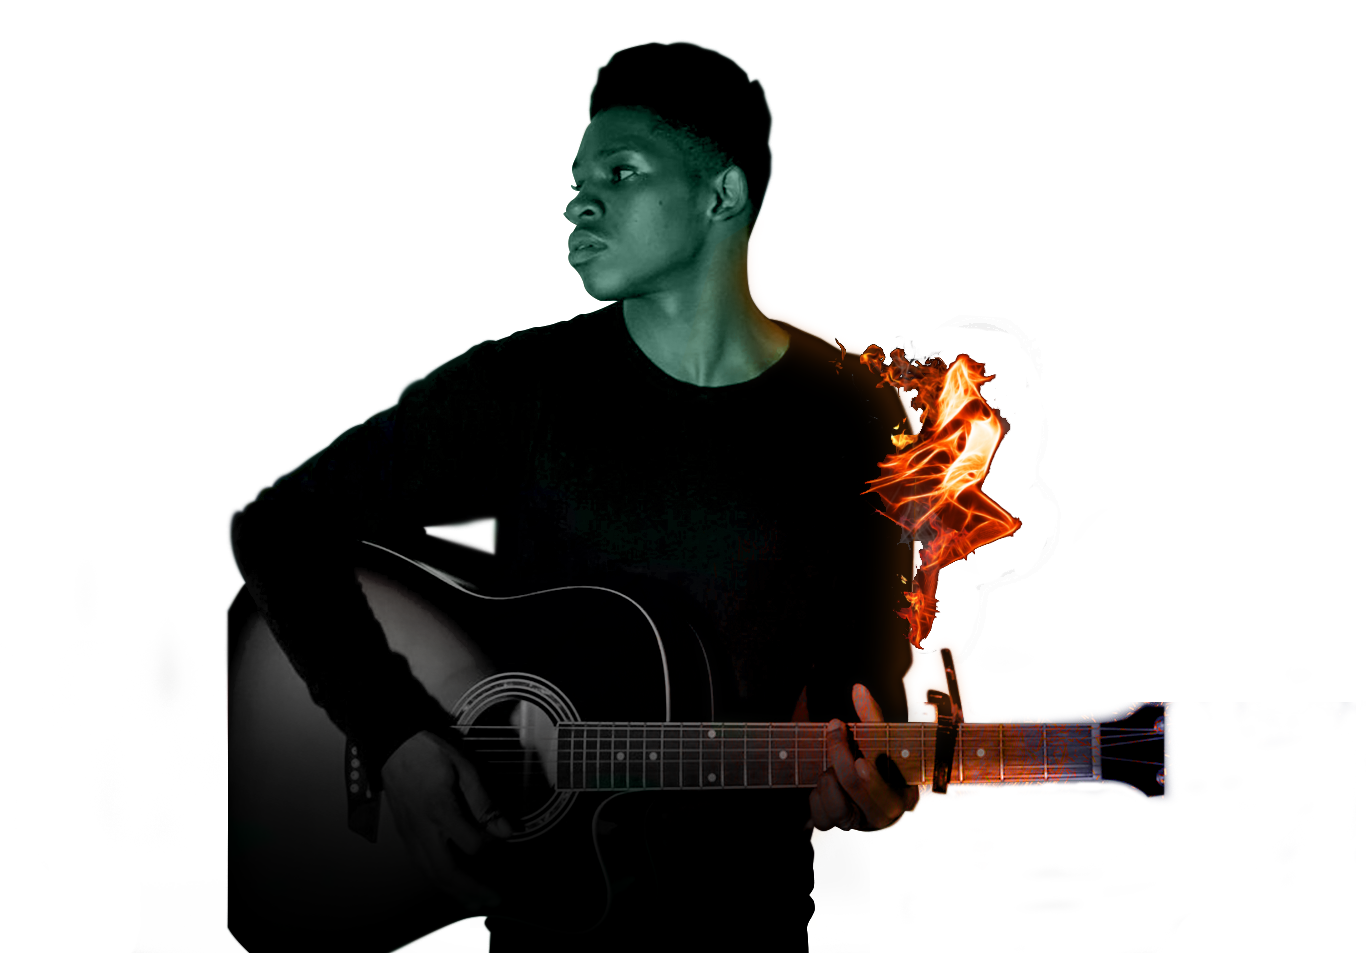
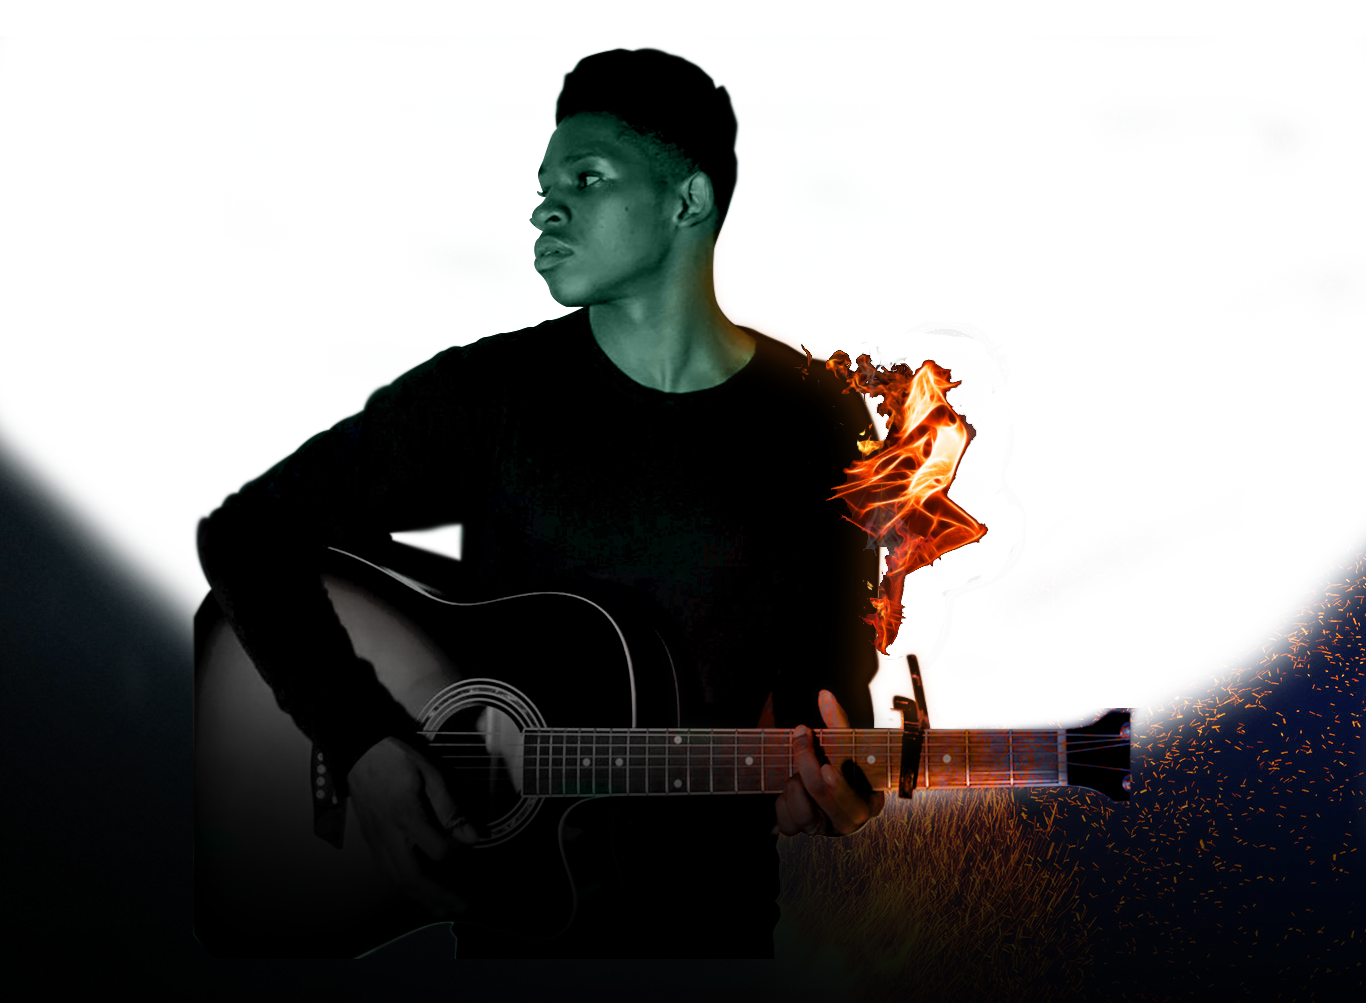
hero with gradient

diff --git a/index.html b/index.html
@@ -10,16 +10,16 @@
         <link rel="stylesheet" href="css/mobile.css">
         <link rel="stylesheet" href="css/iPad.css">
         <link rel="stylesheet" href="css/laptop.css">
-        <link rel="stylesheet" href="css/desktop.css">
-        
+        <link rel="stylesheet" href="css/desktop.css">     
+          
    </head>
    
 	<body>
 		  
 		    <section class=" parallax-1">
-		     <div class="container">
-				<img id="artist" src="images/artist.png"/>
-				</div>
+				 <div class="container">
+					<img id="artist" src="images/artist.png"/>
+				 </div>
 	 		 </section>
 			<div class="hero">
 				<div class="img-wrapper">				
@@ -58,36 +58,35 @@
 		<main class="middle">
 			<div class="container1">
 				<div>
-					<p class="vid fadeInScroll">VIDEOS</p>
+					<p class="vid">VIDEOS</p>
 					<p class="vid_big">VIDEOS</p>
 					<p class="info1">PUT INFORMATION HERE</p>
 				</div>
-				<div id="videos" class="fadeInBlockLeft left">
+				<div id="videos">
 					<img src="images/music.png" width="353" height="215" alt="">
 				</div>
 				<div>
-					<p class="listen fadeInScroll">LISTENING TO</p>
-					<p class="listen_big">LISTENING TO</p>
+					<p class="listen">LISTENING TO</p>
+					<p class="listen_big">MUSIC</p>
 					<p class="info2">PUT INFORMATION HERE</p>
-				</div>
-		  		
+				</div> 		
 				
-			  	<div id="apple" class="fadeInBlockLeft left">
+			  	<div id="apple">
 					<a href="#">
 						<img src="images/apple.png" alt="">
 					</a>
 			  	</div>
-			  	<div id="logo1" class="fadeInBlockLeft left">
+			  	<div id="logo1">
 			  		<a href="#">
 						<img src="images/logo1.png" alt="">
 					</a>
 			 	</div>
-			  	<div id="logo2" class="fadeInBlockLeft left">
+			  	<div id="logo2">
 			  		<a href="#">
 						<img src="images/logo2.png" alt="">
 					</a>
 			  	</div>
-			  	<div id="logo3" class="fadeInBlockLeft left">
+			  	<div id="logo3">
 			  		<a href="#">
 						<img src="images/logo3.png" alt="">
 					</a>
@@ -95,7 +94,7 @@
 			</div>
 			
 			<div class="boxed">
-				<a class="circle fadeInBlockRight right"href="#">
+				<a class="circle" href="#">
 					<img src="images/artist-circle.png" alt="">
 				</a>
 				<p class="title">TITLE OF THE SONG</p>
@@ -127,7 +126,7 @@
 			
 			<div class="container2">
 				<div>
-		  			<p class="tour fadeInScroll">TOUR</p>
+		  			<p class="tour">TOUR</p>
 		  			<p class="tour_big">TOUR</p>
 		  		</div>
 		
@@ -140,9 +139,10 @@
 					</div>
 				</div>
 				<div id="col2">
-					<div id="ticket1" class="fadeInBlockLeft left">
+					<div id="ticket1">
 							<img src="images/ticket.png" alt="">
 					</div>
+					
 				</div>
 				<div id="col3">
 					<div id="summer2">
@@ -153,13 +153,12 @@
 					</div>
 				</div>
 				<div id="col4">
-					<div id="ticket2" class="fadeInBlockLeft left">
+					<div id="ticket2">
 							<img src="images/ticket.png" alt="">
 					</div>
 				</div>	
 			</div>
 			
-<!--				<a href="#" class="get">GET TICKETS</a>-->
 				
 			<div class="container3">
 			  <div class="row row-cols-1 row-cols-sm-2 row-cols-md-4">
@@ -172,7 +171,7 @@
 					</div>
 				</div>
 				<div id="col2">
-					<div id="ticket3" class="fadeInBlockRight right">
+					<div id="ticket3">
 							<img src="images/ticket.png"alt="">
 					</div>
 				</div>
@@ -185,7 +184,7 @@
 					</div>
 				</div>
 				<div id="col4">
-					<div id="ticket4" class="fadeInBlockRight right">
+					<div id="ticket4">
 							<img src="images/ticket.png" alt="">
 					</div>
 				</div>
@@ -195,26 +194,26 @@
 			<div class="slideshow-container">
 				<div class="mySlides">
 					<img  class="white" src="images/white.jpg"  alt="">	
-					  <div class="merchandise fadeInScroll ">NEW&nbsp;MERCHANDISE</div>
-					  <div class="love fadeInScroll ">SUMMER&nbsp;LOVE&nbsp;TOUR</div>
-					  <div class="collection fadeInScroll ">COLLECTION&nbsp;AVAILABLE</div>
-					  <div class="shop fadeInScroll ">SHOP&nbsp;NOW</div>
+					  <div class="merchandise">NEW&nbsp;MERCHANDISE</div>
+					  <div class="love">SUMMER&nbsp;LOVE&nbsp;TOUR</div>
+					  <div class="collection">COLLECTION&nbsp;AVAILABLE</div>
+					  <div class="shop">SHOP&nbsp;NOW</div>
 					  <div><img class="tshirt" src="images/shirt.png"alt=""></div>
 				</div>
 				<div class="mySlides">
 					<img  class="white" src="images/white.jpg"  alt="">	
-					  <div class="merchandise fadeInScroll ">NEW&nbsp;MERCHANDISE</div>
-					  <div class="love fadeInScroll ">SUMMER&nbsp;LOVE&nbsp;TOUR</div>
-					  <div class="collection fadeInScroll ">COLLECTION&nbsp;AVAILABLE</div>
-					  <div class="shop fadeInScroll ">SHOP&nbsp;NOW</div>
+					  <div class="merchandise">NEW&nbsp;MERCHANDISE</div>
+					  <div class="love">SUMMER&nbsp;LOVE&nbsp;TOUR</div>
+					  <div class="collection">COLLECTION&nbsp;AVAILABLE</div>
+					  <div class="shop">SHOP&nbsp;NOW</div>
 					  <div><img class="tshirt" src="images/shirt.png"alt=""></div>
 				</div>
 				<div class="mySlides">
 					<img  class="white" src="images/white.jpg"  alt="">	
-					  <div class="merchandise fadeInScroll ">NEW&nbsp;MERCHANDISE</div>
-					  <div class="love fadeInScroll ">SUMMER&nbsp;LOVE&nbsp;TOUR</div>
-					  <div class="collection fadeInScroll ">COLLECTION&nbsp;AVAILABLE</div>
-					  <div class="shop fadeInScroll ">SHOP&nbsp;NOW</div>
+					  <div class="merchandise">NEW&nbsp;MERCHANDISE</div>
+					  <div class="love">SUMMER&nbsp;LOVE&nbsp;TOUR</div>
+					  <div class="collection">COLLECTION&nbsp;AVAILABLE</div>
+					  <div class="shop">SHOP&nbsp;NOW</div>
 					  <div><img class="tshirt" src="images/shirt.png"alt=""></div>
 				</div>
 			</div>
@@ -226,18 +225,18 @@
 			</div>
 			
 			<div>
-				<p class="signup fadeInScroll">SIGN&nbsp;UP&nbsp;FOR</p>
-				<p class="phoinix fadeInScroll">PHOINIX&nbsp;KEYZ</p>
-				<p class="updates fadeInScroll">UPDATES</p>
+				<p class="signup">SIGN&nbsp;UP&nbsp;FOR</p>
+				<p class="phoinix">PHOINIX&nbsp;KEYZ</p>
+				<p class="updates">UPDATES</p>
 			</div>
 		  		
 			<form class="form-inline">		  
 				<input	type="email" 
-						class="form-control emailInput change fadeInBlockLeft left" 
+						class="form-control emailInput change" 
 						id="inputEmail" 
 						placeholder="ENTER YOUR EMAIL HERE">
 			  <button type="submit" 
-					  class="btn btn-light mb-2 fadeInBlockRight right">
+					  class="btn btn-light mb-2">
 					  SIGN UP NOW
 			  </button>
 			</form>
@@ -253,32 +252,32 @@
 					<img src="images/artist_name.png"  alt="">
 				</a>
 			</div>
-			<div class="facebook-logo fadeInBlockRight right">
+			<div class="facebook-logo">
 				<a href="#">
 					<img src="images/facebook-logo-white.png" alt="">
 				</a>
 			</div>
-			<div class="youtube-logo fadeInBlockRight right">
+			<div class="youtube-logo">
 				<a href="#">
 					<img src="images/youtube-logo.png" alt="">
 				</a>
 			</div>
-			<div class="instagram-logo fadeInBlockRight right">
+			<div class="instagram-logo">
 				<a href="#">
 					<img src="images/instagram-logo.png" alt="">
 				</a>
 			</div>
-			<div class="snapcatch-logo fadeInBlockRight right">
+			<div class="snapcatch-logo">
 				<a href="#">
 					<img src="images/snapcatch-logo.png" alt="">
 				</a>
 			</div>
-			<div class="twitter-logo fadeInBlockRight right">
+			<div class="twitter-logo">
 				<a href="#">
 					<img src="images/twitter-logo.png" alt="">
 				</a>
 			</div>
-			<div class="copyright fadeInBlockLeft left">
+			<div class="copyright">
 				<p>©2019 Phoinix Keyz. All Rights Reserved<br>
 				</p>
 			</div>
@@ -294,5 +293,6 @@
 		<script src="js/select.js"></script>
 		<script src="js/scrolleffect.js"></script>
 <!--		<script src="js/parallax.js"></script>-->
+
    </body>
 </html>

diff --git a/css/styles.css b/css/styles.css
@@ -66,7 +66,7 @@
 .twitter {margin-top: 50px;}
 
 .img-wrapper {
-  	display: grid;
+/*  	display: grid;*/
   	height: 100vh;
 }
 
@@ -246,23 +246,57 @@
 }
 
 
-/*===============================================================
- Parallax effect Style
-==================================================================*/
+/*animation element*/
 
-/*
-section.parallax-1 { 
-	background-image: url("../images//artist-bg.jpg"); 
-	position: absolute;
-	width: 1000px;
-	height: 900px;
-	background-repeat: no-repeat;
-	background-attachment: fixed;
-	background-size: contain;
-	top: 0;
-	transform: translate(-50%,0);
-	margin: 0 auto;
+.animation-element {
+  position: relative;
+  width: 30%;
+  margin: 0% 1.33 2.66% 1.33%;
+  float: left;
 }
-*/
+/*3 grid layout*/
+
+.animation-element:nth-of-type(3n-2) {
+  width: 31.5%;
+  margin: 0% 1.375% 2.75% 0%;
+  clear: left;
+}
+
+.animation-element:nth-of-type(3n-1) {
+  width: 31.5%;
+  margin: 0% 1.375% 2.75% 1.375%;
+}
+
+.animation-element:nth-of-type(3n-0) {
+  width: 31.5%;
+  margin: 0% 0% 2.75% 1.375%;
+  clear: right;
+}
+/*bounce up animation for the subject*/
+
+.bounce-up .subject {
+  opacity: 0;
+  -moz-transition: all 700ms ease-out;
+  -webkit-transition: all 700ms ease-out;
+  -o-transition: all 700ms ease-out;
+  transition: all 700ms ease-out;
+  -moz-transform: translate3d(0px, 200px, 0px);
+  -webkit-transform: translate3d(0px, 200px, 0px);
+  -o-transform: translate(0px, 200px);
+  -ms-transform: translate(0px, 200px);
+  transform: translate3d(0px, 200, 0px);
+  -webkit-backface-visibility: hidden;
+  -moz-backface-visibility: hidden;
+  backface-visibility: hidden;
+}
+
+.bounce-up.in-view .subject {
+  opacity: 1;
+  -moz-transform: translate3d(0px, 0px, 0px);
+  -webkit-transform: translate3d(0px, 0px, 0px);
+  -o-transform: translate(0px, 0px);
+  -ms-transform: translate(0px, 0px);
+  transform: translate3d(0px, 0px, 0px);
+}
 
 

diff --git a/css/laptop.css b/css/laptop.css
@@ -28,17 +28,17 @@
 	#artist {
 		margin-left: 500px;
 		margin-top: 75px;
-		width: 100%;
+		width: 1015px;
 		height: 100%;
 		position:relative; 
 		transform: translate(-50%, 0);
 	}
-	#artist_name {margin-top: 150px;}
-	#facebook {width: 10px;height:25px;margin-top: 160px;margin-left: -15px;}
-	#youtube {width: 25px;height:20px;margin-top: 160px;margin-left: -10px;}
-	#instagram {width: 20px;height:20px;margin-top: 160px;margin-left: 2px;}
-	#snapcatch {width: 20px;height:20px;margin-top: 160px;margin-left: 10px;}
-	#twitter {width: 20px;height:20px;margin-top: 160px;margin-left: 15px;}
+	#artist_name {margin-top: 180px;margin-left: -20px;}
+	#facebook {width: 10px;height:25px;margin-top: 190px;margin-left: -35px;}
+	#youtube {width: 25px;height:20px;margin-top: 190px;margin-left: -25px;}
+	#instagram {width: 20px;height:20px;margin-top: 190px;margin-left: -10px;}
+	#snapcatch {width: 20px;height:20px;margin-top: 190px;margin-left: 1px;}
+	#twitter {width: 20px;height:20px;margin-top: 190px;margin-left: 4px;}
 
 	.vid{
 		font-family: myfont3; 
@@ -78,7 +78,7 @@
 		font-family: myfont3; 
 		color: red; 
 		font-size: 90px; 
-		margin-left: 380px;
+		margin-left: 510px;
 		margin-top: -460px;
 		opacity: 0.1;
 	}
@@ -240,20 +240,6 @@
 		position:relative;
 		bottom: 445px;
 	}
-	
-/*
-	.get {
-	position: relative;
-color: black;
-opacity: 0.7;
-		margin-bottom: 120px;
-		height: 100px;
-		background-color: red;
-		text-decoration-line: none
-	
-
-	}
-*/
 	
 	#andrew {font-size: 15px; position:relative;bottom: 20px;}
 	#detroit {font-size: 15px;position:relative;bottom: 20px;}
@@ -419,7 +405,7 @@ opacity: 0.7;
 
 	.artist_name2 img{
 		width: 280px;
-		height:40px;
+		height:25px;
 		margin-left:140px;
 		position:relative;
 		bottom: 490px;
